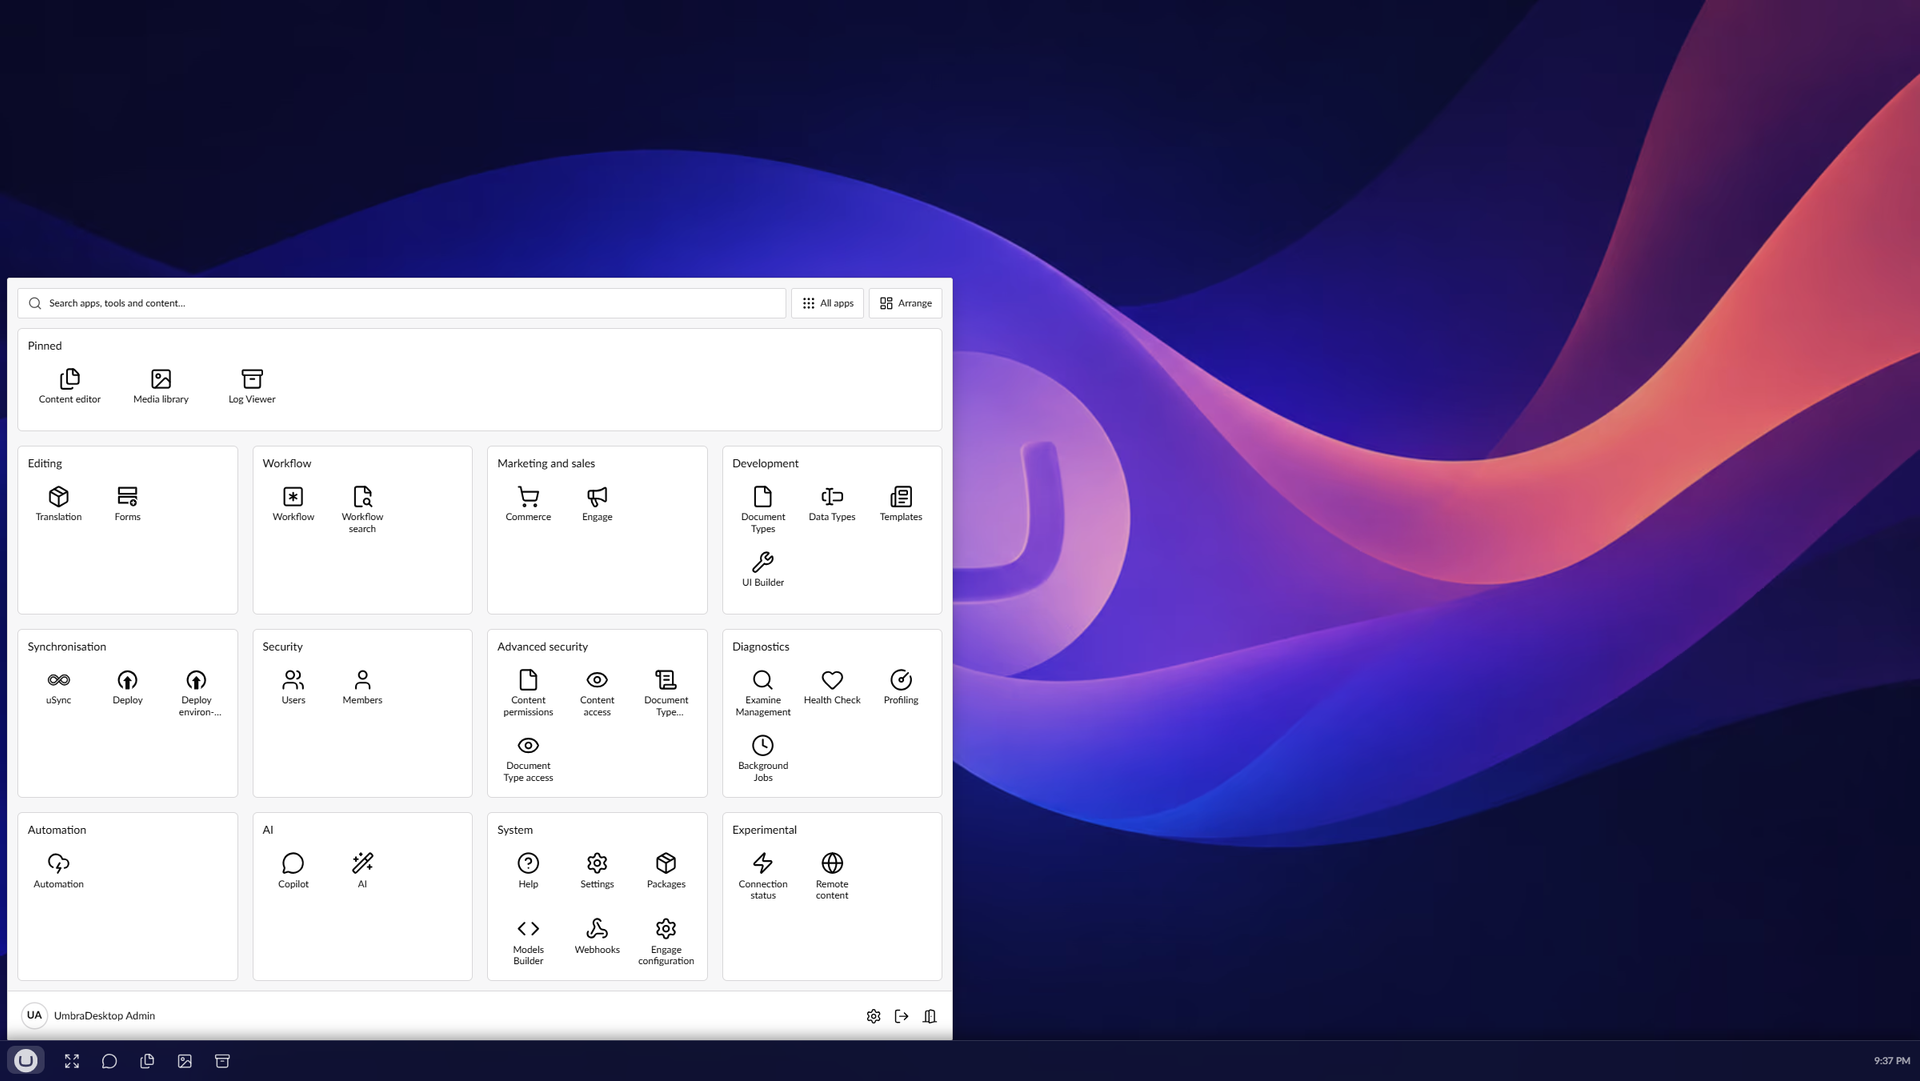
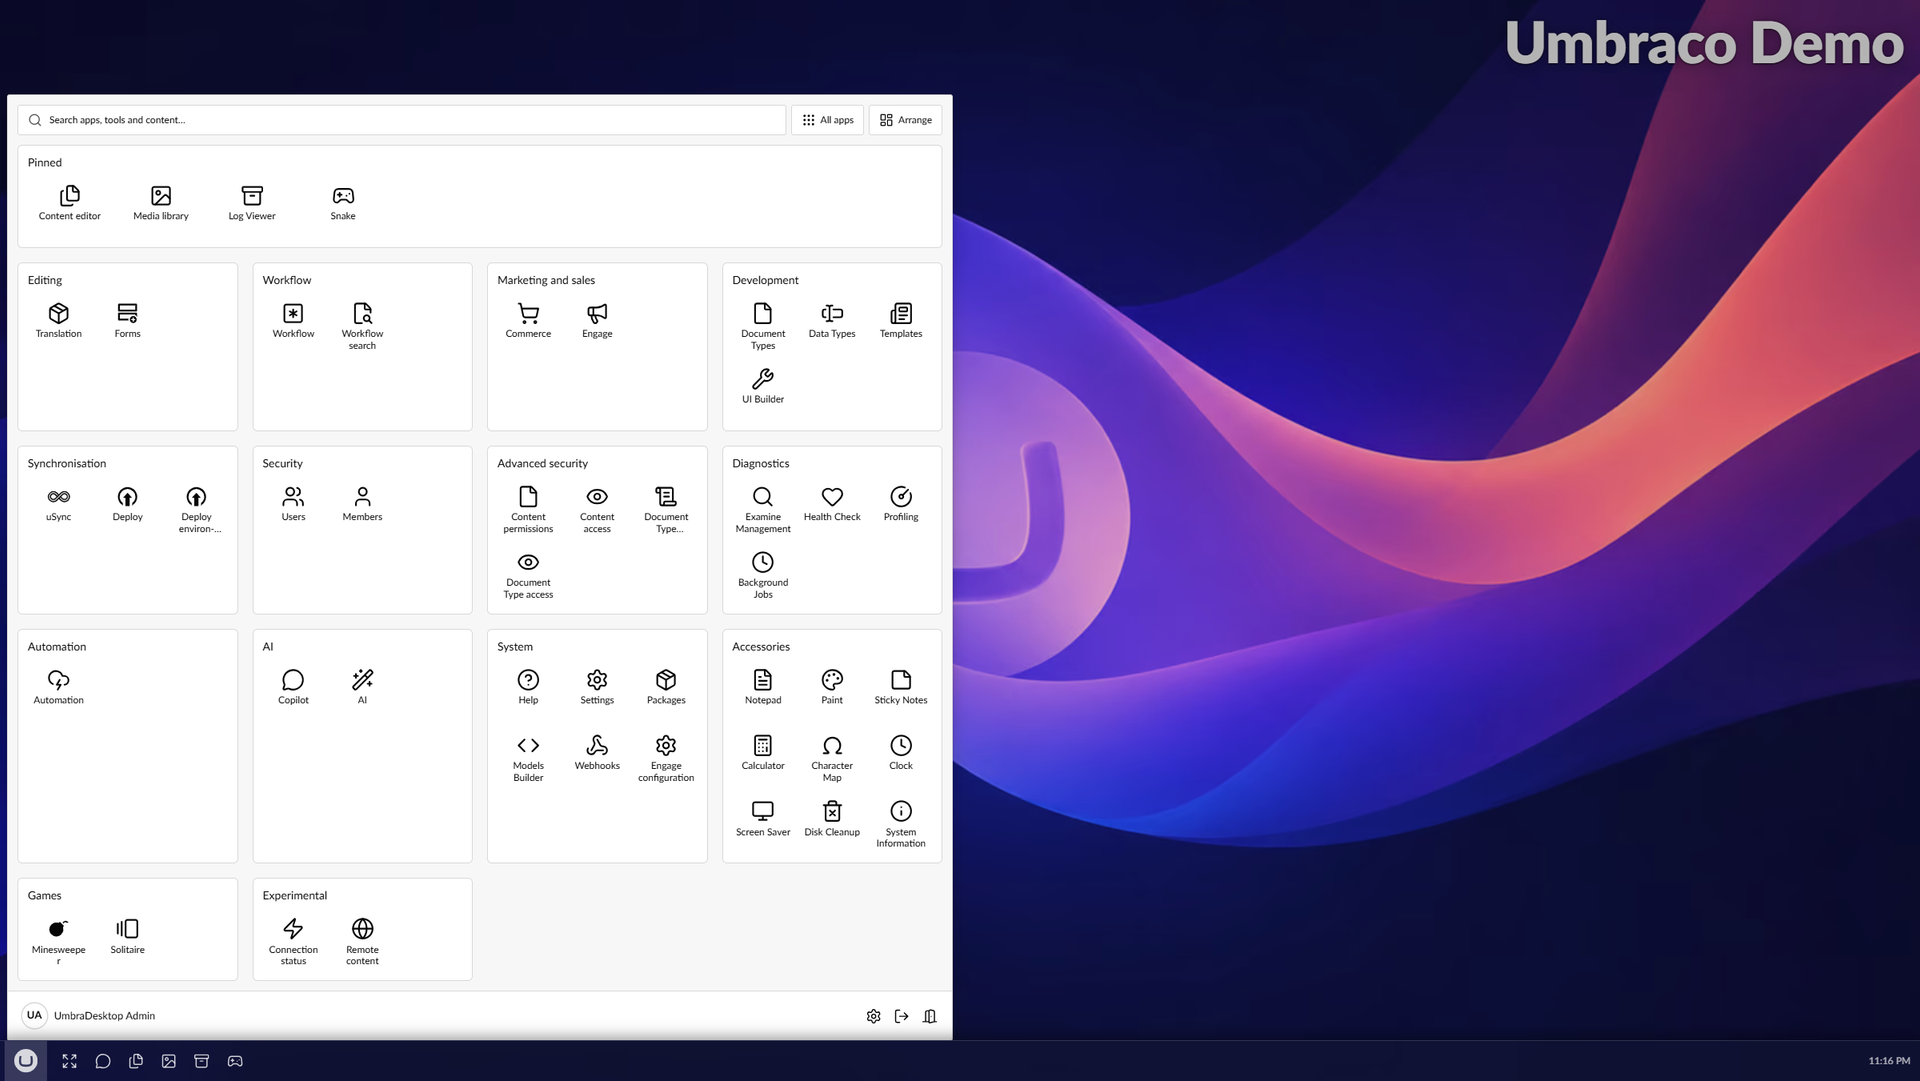
17.3.0 screenshots: launcher retake and an all-games Entertainment shot (#120) (#132)
* Merge every release branch back at once; screenshots may land on it

* Retake the launcher and give Entertainment an all-games opening shot

launcher.png predated the Accessories group, Help and the arrangeable
launcher. It is retaken whole; with thirteen groups it no longer fits
1920x1080, so it was captured at 2400x1351 and shrunk.

Entertainment's opening image was the Minesweeper shot, whose alt text
named every game in the Start menu and went stale when Solitaire
arrived. A new entertainment-games.png with all three games open under
the Umbraco theme replaces it in the README, the games page and first
place in the listing. The Minesweeper file is unchanged, keeps its
place in the games page and the listing, and its alt text no longer
lists the games.

---------

diff --git a/RELEASE.md b/RELEASE.md
@@ -162,12 +162,13 @@ Nothing in CI can do these.
   | `ai-copilot-chat.png` | Umbraco AI's Copilot chat in a window. Needs the TestInstance's Umbraco.AI packages and an API key to retake. |
   | `help.png` | The Help app. Retake when the add-ons' docs change what its contents list shows. |
   | `unsaved-changes-guard.png` | Carries the whole guard story in one frame: the unsaved dot, the "someone else changed this" warning with both buttons, and the recycle-bin error, in three stacked windows with all three markers repeated on the taskbar. A separate overwrite-guard shot was planned and is not needed because this one covers it. Note the file arrived named `unsved-`, which would have 404ed silently on the Marketplace; check new filenames against the `ImageUrl` by eye, since nothing else will. |
-  | `launcher.png` | The whole launcher: the Pinned row, every group, the commercial packages, and the add-ons' Games and Accessories groups. Retake when a group is added or the launcher's layout changes; the caption names the Games group, so it must be in the frame. |
+  | `launcher.png` | The whole launcher: the Pinned row, every group, the commercial packages, and the add-ons' Games and Accessories groups. Retake when a group is added or the launcher's layout changes; the caption names the Games group, so it must be in the frame. Since 17.3.0 the launcher no longer fits 1920×1080, so it was taken in a 2400×1351 window at normal scale and shrunk to 1920×1081; a fractional device pixel ratio instead changes how labels wrap. The "Minesweepe/r" break in the Games tile is the product's own, not the capture's. |
   | `theme-macos.png`, `theme-win98.png` | Two of the five themes, deliberately not all five. A theme shot sells the idea that the chrome restyles; the Description naming all five does the rest, and five near-identical launchers would pad the listing without adding to it. `theme-win98.png` shows an older launcher and is kept as it is: it is there to show the theme, and the content behind it is not the subject. |
   | `choose-background.png` | Desktop settings with the wallpaper tray open. The one shot that proves any of this is *yours to change*: without it a reader can take the two theme shots for two screenshots of a product rather than a switch they flip, and the Media library button is the only place that capability appears in the gallery at all. Also the only shot that evidences the README's count of shipped backgrounds, since the tray names them all plus None. The theme row is clipped by the tray, so neither the caption nor the alt text claims all five are visible. **Retake when the tile count changes** — it was shot at eight and the package ships ten since Cobalt Beacon and First Light. The README's alt text deliberately names no number, so a stale shot never contradicts the prose, but it is still the shot that has to show them all. |
   | `theme-wallpaper-match.png` | The theme picker with **Match the wallpaper to the theme** on, every preview carrying its own background. The one frame that explains the feature without a caption: Windows 98's bare teal sitting beside macOS's sunrise says what "each theme brings its own wallpaper" means faster than the sentence does. Take it with the toggle **on** — off, the five previews are identical backgrounds and the shot shows nothing. |
   | `background-jobs-viewer.png` | The Distributed table only. The Recurring one is below the fold and the view does not fit a screen at any framing worth having, so the caption does not claim the split and the explanation at the top of the shot carries the point. |
-  | `entertainment-games-minesweeper.png` | In the add-on's `docs/screenshots/`. The add-on's opening image, so its NuGet page too. The alt text names every game in the Games group, so retake it when a game is added, with the group scrolled fully into view. The copy left in the host's `docs/screenshots/` is the shipped one and stays. |
+  | `entertainment-games.png` | In the add-on's `docs/screenshots/`. Every game open at once under the Umbraco theme, and since 17.3.0 the add-on's opening image, so its NuGet page too, and first in its listing. It replaced the Minesweeper shot there because that one's alt text had to name every game in a menu and went stale when Solitaire arrived. Retake it when a game is added; the alt text names the games, so check it with the shot. Solitaire freshly dealt, Snake before the first key press, Minesweeper mid-game. |
+  | `entertainment-games-minesweeper.png` | In the add-on's `docs/screenshots/`. Windows 98 with the Start menu open to Games. Now the Minesweeper section of the games page and the second listing entry; its alt text names no games, so a new one does not falsify it. The copy left in the host's `docs/screenshots/` is the shipped one and stays. |
   | `entertainment-games-solitaire.png` | In the add-on's `docs/screenshots/`. A game in progress with the settings button visible, in the add-on README and listing. |
   | `entertainment-games-snake.png` | In the add-on's `docs/screenshots/`, listing only. Framed to match Minesweeper's: Windows 98, the Games group open in the launcher. Take it **before** the first key press, so the start message is showing in the middle of the board and the snake is sitting a quarter of the way down above it, since that is the one moment the board says how to play. |
   | `header-entry-point.png` | Small and annotated on purpose. It answers one question, "where is the way in", and showing more screen would not answer it better. |

diff --git a/src/Umbraco.Community.UmbraDesktop.Entertainment/docs/user/games.md b/src/Umbraco.Community.UmbraDesktop.Entertainment/docs/user/games.md
@@ -3,7 +3,7 @@ id: games
 title: Games
 description: Install the Entertainment add-on and play Minesweeper, Snake and Solitaire on the desktop.
 sidebar_position: 1
-image: ../screenshots/entertainment-games-minesweeper.png
+image: ../screenshots/entertainment-games.png
 ---
 
 # Games
@@ -11,6 +11,8 @@ image: ../screenshots/entertainment-games-minesweeper.png
 UmbraDesktop Entertainment puts Minesweeper, Snake and Solitaire on the desktop, each in a window of its own,
 under whichever theme is in use. So Minesweeper under the Windows 98 theme looks like Minesweeper, and
 under the macOS theme does not.
+
+![Solitaire, Snake and Minesweeper open side by side as three windows on the UmbraDesktop desktop under the Umbraco theme, each with its own button on the taskbar.](../screenshots/entertainment-games.png)
 
 The games ship in their own package rather than in UmbraDesktop, because a desktop and a minesweeper
 are not the same product, and nobody should have to take the second to get the first.
@@ -41,7 +43,7 @@ be moved and minimised, but not resized or maximised. Solitaire can be resized.
 
 ### Minesweeper
 
-![Minesweeper open in its own window on the UmbraDesktop desktop under the Windows 98 theme, with the launcher open down to its Games group, which lists Minesweeper, Snake and Solitaire, and the game's own taskbar button below.](../screenshots/entertainment-games-minesweeper.png)
+![Minesweeper open in its own window on the UmbraDesktop desktop under the Windows 98 theme, with the launcher open down to its Games group and the game's own taskbar button below.](../screenshots/entertainment-games-minesweeper.png)
 
 The real one, with three difficulties, a mine counter and a timer.
 

diff --git a/src/Umbraco.Community.UmbraDesktop.Entertainment/README.md b/src/Umbraco.Community.UmbraDesktop.Entertainment/README.md
@@ -6,7 +6,7 @@ Games for UmbraDesktop. Minesweeper, Snake and Solitaire, each in a window of it
 
 [![NuGet](https://img.shields.io/nuget/v/Umbraco.Community.UmbraDesktop.Entertainment)](https://www.nuget.org/packages/Umbraco.Community.UmbraDesktop.Entertainment) [![NuGet Downloads](https://img.shields.io/nuget/dt/Umbraco.Community.UmbraDesktop.Entertainment)](https://www.nuget.org/packages/Umbraco.Community.UmbraDesktop.Entertainment) [![License](https://img.shields.io/github/license/Luuk1983/Umbraco.Community.UmbraDesktop)](../../LICENSE)
 
-![Minesweeper open in its own window on the UmbraDesktop desktop under the Windows 98 theme, with the launcher open down to its Games group, which lists Minesweeper, Snake and Solitaire, and the game's own taskbar button below.](docs/screenshots/entertainment-games-minesweeper.png)
+![Solitaire, Snake and Minesweeper open side by side as three windows on the UmbraDesktop desktop under the Umbraco theme, each with its own button on the taskbar.](docs/screenshots/entertainment-games.png)
 
 Install it and the launcher grows a Games group. Open a game and it gets a window like everything else, in whichever theme you picked, so Minesweeper under the Windows 98 theme looks like Minesweeper, and under macOS it does not.
 
